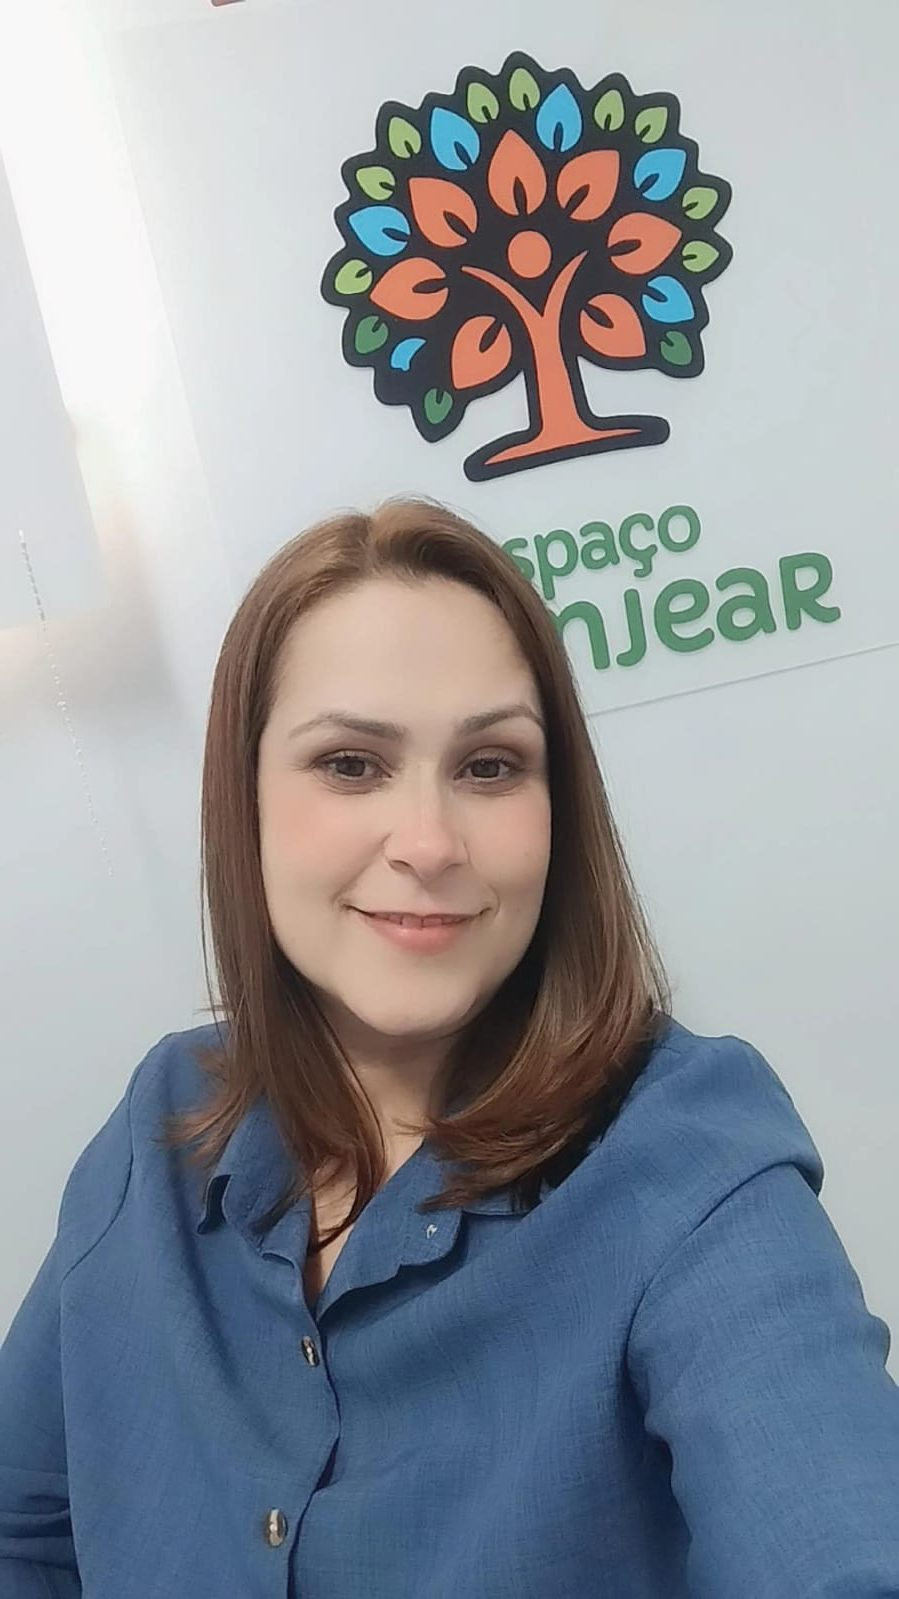
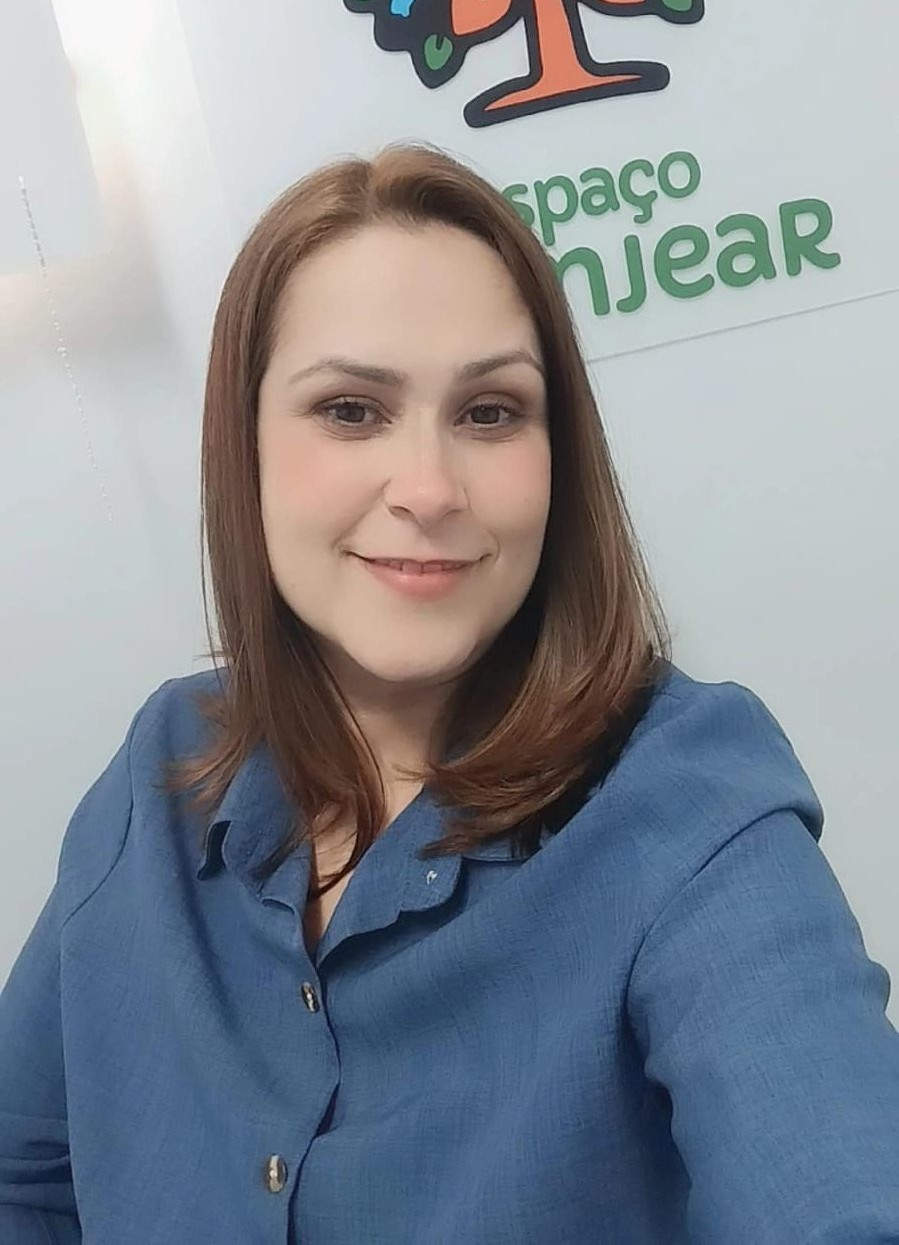
Modificações na foto vivian e dados

diff --git a/index.html b/index.html
@@ -594,7 +594,7 @@
           </picture>
           <h3>Vivian Bighi</h3>
           <p class="role">CEO e fundadora</p>
-          <p class="formation">Especialista em Autismo (PUC-Rio); Neurociência, Educação e Desenvolvimento Infantil (PUC-RS); Psicomotricista.</p>
+          <p class="formation">Especialista em Autismo (PUC-Rio); Neurociência, Educação e Desenvolvimento Infantil (PUC-RS); Psicomotricista; Psicopedagoga.</p>
           <p class="registro">ABPp 1495 · ABP 02 228 459</p>
           <a class="btn btn-tertiary btn--sm" href="https://wa.me/5521981716742?text=Ol%C3%A1%2C%20Vivian!%20Gostaria%20de%20falar%20sobre%20uma%20parceria%20com%20o%20Espa%C3%A7o%20Granjear." target="_blank" rel="noopener" data-event="whatsapp_vivian">Falar com a Vivian</a>
         </div>
@@ -816,7 +816,7 @@
       </div>
     </div>
     <div class="footer-bottom">
-      <span class="rt">Responsável Técnica: Janaina Moraes — CRFa 9851</span>
+      <span class="rt">Responsáveis: Janaina Moraes e Vivian Bighi</span>
       <div class="footer-legal">
         <a href="politica-de-privacidade.html">Política de Privacidade</a>
         <a href="termos-de-uso.html">Termos de uso</a>
